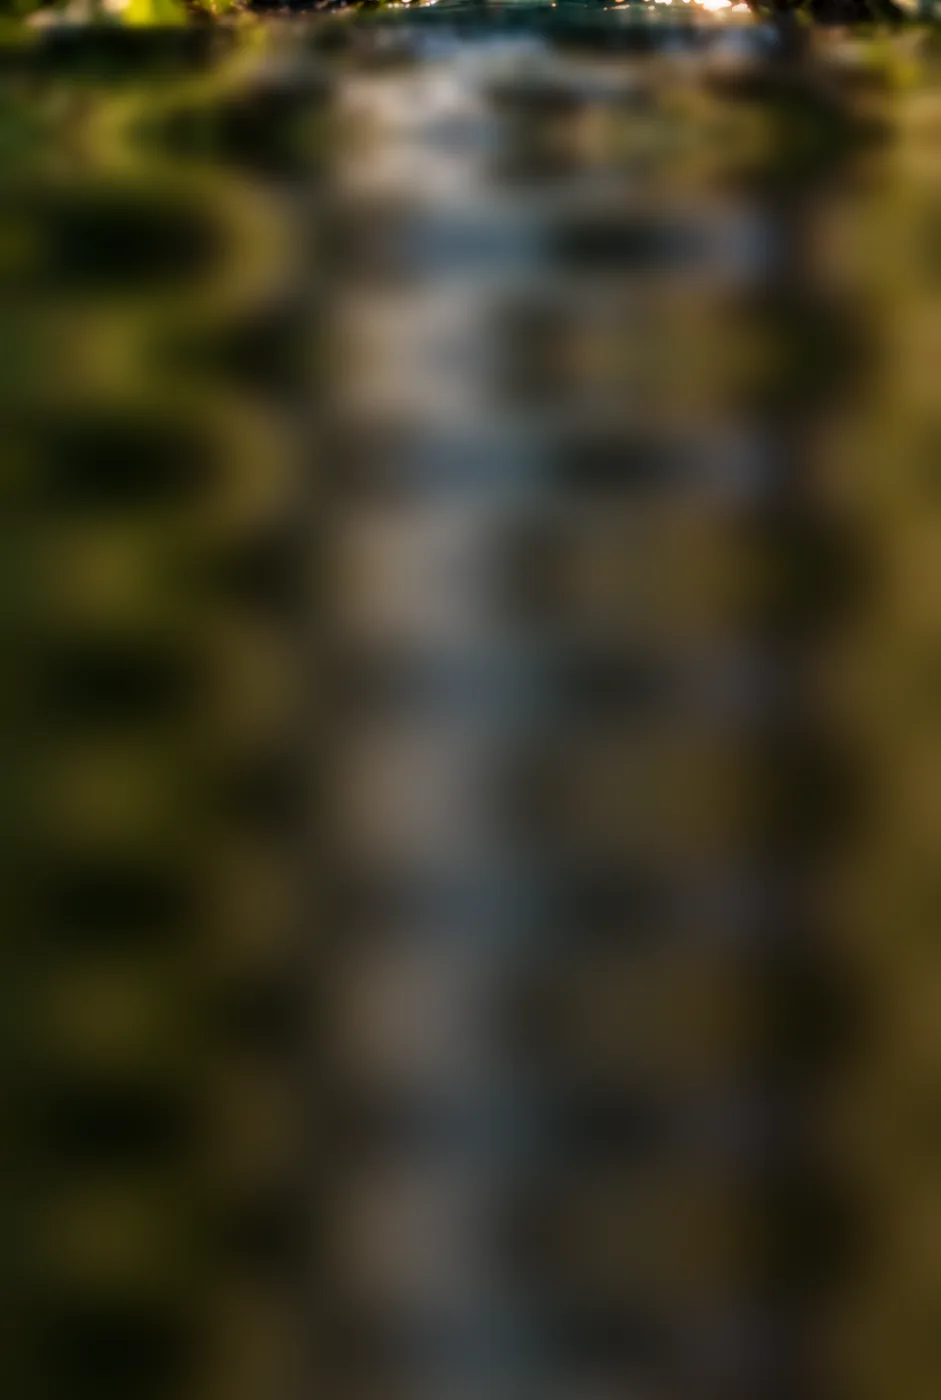
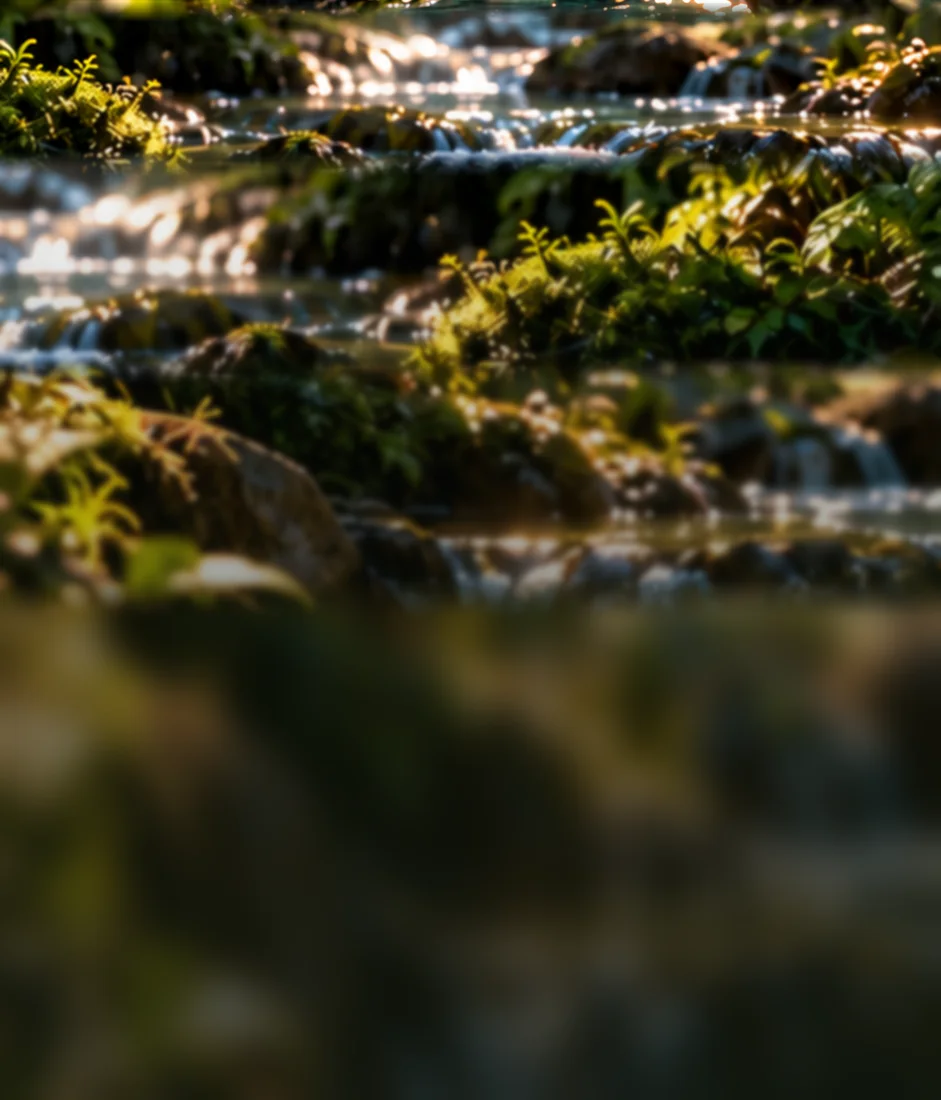
t261 메인 대문 하단 연장 재작성: 문구 없는 계곡·바위·이끼 구간만 사용(미러 없음, 좌우 반전·약한 블러·숲 바닥색으로 점진), 문구 복제 제거 · SW 캐시 t261. 카드·링크·계산·data 무변경

diff --git a/uat-sw.js b/uat-sw.js
@@ -1,6 +1,6 @@
 /* account-uat 전용 SW (scope=account-uat/). 메인 캐시 미접촉. */
 /* Same-origin static routes; normalized HTML aliases retain query navigation. */
-const CACHE='dnmuat194-acct-uat-prod-t260';
+const CACHE='dnmuat194-acct-uat-prod-t261';
 const FILES=["uat-t140-palette.css", "uat-t140.css", "uat-t141.css", "uat-t142.css", "uat-t143.css", "uat-t144.css", "uat-t144.js", "uat-t146.js", "uat-t166.css", "uat-t171.css", "uat-t145.css", "uat-t138.js", "uat-t138.css", "mobile-ui-v1.css", "asset-finish.css", "asset-hub.html", "asset-hub.css", "weather.html", "weather.css", "weather.js", "weather-engine.js", "weather-chart.js", "weather-entry.css", "weather-entry.js", "comparison-adapter.py", "comparison-worker.js", "comparison-render.js", "search-comparison.css", "search-viewport.js", "analysis-search.html", "analysis-hub.css", "compare.html", "comparison-selection.js", "analysis-entry.js", "analysis-entry.css", "assets/forest/forest-bg-tall.webp", "assets/forest/forest-bg-wide.webp", "assets/forest/sprout-mark.webp", "assets/forest/sprout.webp", "forest-analysis.css", "forest-ui.js", "asset-home.html", "output.html", "portal.css", "portal-navigation.css", "nav4.css", "portal-navigation.js", "assets/portal/aux-left.png", "assets/portal/output-card.png", "assets/portal/row-gap.png", "assets/portal/terms-card.png", "assets/portal/header.png", "assets/portal/main-gap.png", "assets/portal/footer.png", "assets/portal/main-right.png", "assets/portal/asset-card.png", "assets/portal/aux-right.png", "assets/portal/analysis-card.png", "assets/portal/main-left.png", "assets/portal/aux-gap.png", "assets/mock/ground.webp", "assets/mock/home_large_glowing_tree.webp", "assets/mock/home_medium_sapling.webp", "assets/mock/home_small_sapling.webp", "assets/mock/i-badge.webp", "assets/mock/i-bank.webp", "assets/mock/i-bars.webp", "assets/mock/i-calendar.webp", "assets/mock/i-check.webp", "assets/mock/i-clock.webp", "assets/mock/i-cloud.webp", "assets/mock/i-coin-small.webp", "assets/mock/i-coin-stack.webp", "assets/mock/i-doc.webp", "assets/mock/i-flow-coins.webp", "assets/mock/i-gear.webp", "assets/mock/i-logo.webp", "assets/mock/i-nav-compass.webp", "assets/mock/i-nav-home.webp", "assets/mock/i-nav-mgmt.webp", "assets/mock/i-piggy.webp", "assets/mock/i-recdoc.webp", "assets/mock/i-recycle.webp", "assets/mock/i-spinner.webp", "assets/mock/i-stack.webp", "assets/mock/i-wallet.webp", "assets/mock/loading_sapling.webp", "assets/mock/management_glowing_tree.webp", "assets/mock/page-bg.webp", "assets/mock/screen-bg.webp", "./", "mobile-text-v1.3.css", "perf-finish.css", "product-shell.js", "management.css", "app.js", "phase-data.js", "term-help.js", "sections45-finish.css", "management-ledger.js", "facts-display.js", "display-strategies.json", "terms-page.js", "facts_projection.py", "analysis.html", "phase-worker.js", "real-detail.js", "presentation.py", "favicon.ico", "phase-viewport.js", "sections45-display.js", "lab-shell.js", "management-storage.js", "styles.css", "runtime_source.zip", "terms.html", "index.html", "management-data.js", "management-tax.js", "data/tax-v53.json", "mobile-detail.html", "facts-finish.css", "sections13-finish.css", "management.html", "market_projection.py", "term-help.css", "phase-shell.js", "management-view.js", "detail.html", "sections13-display.js", "data/475380.json", "data/0144L0.json", "data/0094L0.json", "data/491620.json", "data/0219E0.json", "data/0128D0.json", "data/091170.json", "data/495050.json", "data/0089D0.json", "data/494300.json", "data/0176P0.json", "data/493420.json", "data/465670.json", "data/0222D0.json", "data/runtime-manifest.json", "data/429000.json", "data/452360.json", "data/211900.json", "data/279530.json", "data/373790.json", "data/0115C0.json", "data/245340.json", "data/term-help-content.json", "data/0097L0.json", "data/0139P0.json", "data/0153X0.json", "data/468380.json", "data/0104P0.json", "data/0004G0.json", "data/458760.json", "data/441640.json", "data/0223A0.json", "data/460660.json", "data/498400.json", "data/0049M0.json", "data/0005A0.json", "data/499150.json", "data/0084E0.json", "data/290080.json", "data/495850.json", "data/497780.json", "data/446720.json", "data/480020.json", "data/472150.json", "data/0190G0.json", "data/495230.json", "data/476690.json", "data/0094M0.json", "data/0177R0.json", "data/0022T0.json", "data/104530.json", "data/441680.json", "data/0127V0.json", "data/476850.json", "data/0052D0.json", "data/466940.json", "data/498410.json", "data/487950.json", "data/441800.json", "data/490590.json", "data/495040.json", "data/161510.json", "data/483290.json", "data/484880.json", "data/0089C0.json", "data/481050.json", "data/0198A0.json", "data/498860.json", "data/482730.json", "data/336160.json", "data/166400.json", "data/494420.json", "data/0107F0.json", "data/0018C0.json", "data/432840.json", "data/433330.json", "data/0008S0.json", "data/289480.json", "data/catalog.json", "data/475720.json", "data/0098N0.json", "data/402970.json", "data/0138T0.json", "data/493810.json", "data/460960.json", "data/490600.json", "data/0104N0.json", "data/495330.json", "data/458730.json", "data/0167B0.json", "data/489250.json", "data/486290.json", "data/496080.json", "data/0210E0.json", "data/483280.json", "data/474220.json", "data/480030.json", "data/0084D0.json", "data/494210.json", "data/management-distributions.json", "data/489030.json", "data/480040.json", "data/0199C0.json", "data/453330.json", "data/448100.json", "data/322410.json", "data/0153K0.json", "data/0111J0.json", "data/prices.json", "data/0013P0.json", "data/0127T0.json", "data/0105E0.json", "data/455660.json", "data/0152E0.json", "data/0046Y0.json", "data/0189Z0.json", "data/458750.json", "inputs/475380.json", "inputs/0144L0.json", "inputs/0094L0.json", "inputs/491620.json", "inputs/0219E0.json", "inputs/0128D0.json", "inputs/091170.json", "inputs/495050.json", "inputs/0089D0.json", "inputs/494300.json", "inputs/0176P0.json", "inputs/493420.json", "inputs/465670.json", "inputs/0222D0.json", "inputs/429000.json", "inputs/452360.json", "inputs/211900.json", "inputs/279530.json", "inputs/373790.json", "inputs/0115C0.json", "inputs/245340.json", "inputs/0097L0.json", "inputs/0139P0.json", "inputs/0153X0.json", "inputs/468380.json", "inputs/0104P0.json", "inputs/0004G0.json", "inputs/458760.json", "inputs/441640.json", "inputs/0223A0.json", "inputs/460660.json", "inputs/498400.json", "inputs/0049M0.json", "inputs/0005A0.json", "inputs/499150.json", "inputs/0084E0.json", "inputs/290080.json", "inputs/495850.json", "inputs/497780.json", "inputs/446720.json", "inputs/480020.json", "inputs/472150.json", "inputs/0190G0.json", "inputs/495230.json", "inputs/476690.json", "inputs/0094M0.json", "inputs/0177R0.json", "inputs/0022T0.json", "inputs/104530.json", "inputs/441680.json", "inputs/0127V0.json", "inputs/476850.json", "inputs/0052D0.json", "inputs/466940.json", "inputs/498410.json", "inputs/487950.json", "inputs/441800.json", "inputs/490590.json", "inputs/495040.json", "inputs/161510.json", "inputs/483290.json", "inputs/484880.json", "inputs/0089C0.json", "inputs/481050.json", "inputs/0198A0.json", "inputs/498860.json", "inputs/482730.json", "inputs/336160.json", "inputs/166400.json", "inputs/494420.json", "inputs/0107F0.json", "inputs/0018C0.json", "inputs/432840.json", "inputs/433330.json", "inputs/0008S0.json", "inputs/289480.json", "inputs/475720.json", "inputs/0098N0.json", "inputs/402970.json", "inputs/0138T0.json", "inputs/493810.json", "inputs/460960.json", "inputs/490600.json", "inputs/0104N0.json", "inputs/495330.json", "inputs/458730.json", "inputs/0167B0.json", "inputs/489250.json", "inputs/486290.json", "inputs/496080.json", "inputs/0210E0.json", "inputs/483280.json", "inputs/474220.json", "inputs/480030.json", "inputs/0084D0.json", "inputs/494210.json", "inputs/489030.json", "inputs/480040.json", "inputs/0199C0.json", "inputs/453330.json", "inputs/448100.json", "inputs/322410.json", "inputs/0153K0.json", "inputs/0111J0.json", "inputs/0013P0.json", "inputs/0127T0.json", "inputs/0105E0.json", "inputs/455660.json", "inputs/0152E0.json", "inputs/0046Y0.json", "inputs/0189Z0.json", "inputs/458750.json", "references/069500.json", "references/229200.json", "references/379810.json", "references/379800.json", "assets/approved-home-coins.png", "assets/management-tree.svg", "assets/management-forest.svg", "assets/pyodide/ssl-1.0.0-cp313-cp313-pyodide_2025_0_wasm32.whl", "assets/pyodide/pyodide-lock.json", "assets/pyodide/pyodide.asm.js", "assets/pyodide/sqlite3-1.0.0-cp313-cp313-pyodide_2025_0_wasm32.whl", "assets/pyodide/pyodide.js", "assets/pyodide/pyodide.asm.wasm", "assets/pyodide/libopenssl-1.1.1w.zip", "assets/pyodide/python_stdlib.zip", "analysis-finish.css", "assets/forest/analysis-hero-bg.webp", "assets/weather/wx-forest-sun.webp", "assets/weather/wx-forest-cloud.webp", "assets/weather/wx-forest-rain.webp", "dividend.html", "fd-engine.js", "fd-view.js", "fd.css", "fd-forecast.json", "fd-calendar.json", "empty-start.js"];
 const BASE=new URL('./',self.location.href),KNOWN=new Set(FILES.filter(p=>p!=='./'));
 const PARENT=new URL('../',BASE),KNOWN_ABS=new Set(FILES.filter(p=>p!=='./').map(p=>new URL(p,BASE).href));

diff --git a/index.html b/index.html
@@ -1,1 +1,1 @@
-<!doctype html><html lang="ko"><head><meta name="color-scheme" content="only dark"><meta charset="utf-8"><link rel="icon" href="favicon.ico" type="image/x-icon"><meta name="viewport" content="width=device-width,initial-scale=1"><title>돈냄새연구소</title><link rel="stylesheet" href="portal.css"><link rel="stylesheet" href="portal-t259.css?v=t260"></head><body><main class="portal"><header><h1 class="portal-copy">돈냄새연구소</h1><p class="portal-copy">정밀하게 분석하고, 천천히 키운다. 작은 씨앗이, 꾸준한 배당의 숲이 되는 길. 데이터로 분석하고, 구조로 이해하고, 천천히 자산을 키웁니다.</p><img src="assets/portal/t259/header.webp" alt="" width="941" height="460"></header><nav class="gate-row gate-r1" aria-label="놀이터와 용어"><img src="assets/portal/t259/r1-left.webp" alt="" width="31" height="214"><a class="gate-card gate-play" href="playground/" aria-label="투자 놀이터 · 전세 · 월세 투자"><span class="portal-copy">투자 놀이터 NEW · 전세 · 월세 투자</span><img src="assets/portal/t259/play.webp" alt="" width="666" height="214" onerror="this.parentNode.classList.add('noimg');this.remove()"></a><img src="assets/portal/t259/r1-gap.webp" alt="" width="17" height="214"><a class="gate-card gate-terms" href="terms.html#terms-sections" aria-label="용어"><span class="portal-copy">용어</span><img src="assets/portal/t259/terms.webp" alt="" width="196" height="214" onerror="this.parentNode.classList.add('noimg');this.remove()"></a><img src="assets/portal/t259/r1-right.webp" alt="" width="31" height="214"></nav><img src="assets/portal/t259/row-gap.webp" alt="" width="941" height="32"><div class="gate-row gate-r2" aria-label="핵심 서비스"><img src="assets/portal/t259/r2-left.webp" alt="" width="33" height="536"><a class="gate-card gate-analysis" href="analysis.html" aria-label="종목분석"><span class="portal-copy">종목분석 · 좋은 씨앗을 고르는 일부터, 가치보다 지표로, 수익률보다 지속성을 봅니다. 분석 시작하기</span><img src="assets/portal/t259/analysis.webp" alt="" width="428" height="536" onerror="this.parentNode.classList.add('noimg');this.remove()"></a><img src="assets/portal/t259/r2-gap.webp" alt="" width="19" height="536"><a class="gate-card gate-asset" href="asset-hub.html" aria-label="내 자산관리"><span class="portal-copy">내 자산관리 · 오늘 심은 자산이 내일의 숲이 되도록, 보유 종목과 분배금의 흐름을 체계적으로 관리합니다. 내 자산 보기</span><img src="assets/portal/t259/asset.webp" alt="" width="426" height="536" onerror="this.parentNode.classList.add('noimg');this.remove()"></a><img src="assets/portal/t259/r2-right.webp" alt="" width="35" height="536"></div><footer><img src="assets/portal/t259/footer.webp" alt="" width="941" height="198"><p class="portal-copy">오늘의 작은 분석이, 더 큰 내일을 만듭니다. INVEST · ANALYZE · GROW</p></footer><div class="gate-ext" aria-hidden="true"></div></main><script src="uat-t146.js?v=v53w-8"></script></body></html>
+<!doctype html><html lang="ko"><head><meta name="color-scheme" content="only dark"><meta charset="utf-8"><link rel="icon" href="favicon.ico" type="image/x-icon"><meta name="viewport" content="width=device-width,initial-scale=1"><title>돈냄새연구소</title><link rel="stylesheet" href="portal.css"><link rel="stylesheet" href="portal-t259.css?v=t261"></head><body><main class="portal"><header><h1 class="portal-copy">돈냄새연구소</h1><p class="portal-copy">정밀하게 분석하고, 천천히 키운다. 작은 씨앗이, 꾸준한 배당의 숲이 되는 길. 데이터로 분석하고, 구조로 이해하고, 천천히 자산을 키웁니다.</p><img src="assets/portal/t259/header.webp" alt="" width="941" height="460"></header><nav class="gate-row gate-r1" aria-label="놀이터와 용어"><img src="assets/portal/t259/r1-left.webp" alt="" width="31" height="214"><a class="gate-card gate-play" href="playground/" aria-label="투자 놀이터 · 전세 · 월세 투자"><span class="portal-copy">투자 놀이터 NEW · 전세 · 월세 투자</span><img src="assets/portal/t259/play.webp" alt="" width="666" height="214" onerror="this.parentNode.classList.add('noimg');this.remove()"></a><img src="assets/portal/t259/r1-gap.webp" alt="" width="17" height="214"><a class="gate-card gate-terms" href="terms.html#terms-sections" aria-label="용어"><span class="portal-copy">용어</span><img src="assets/portal/t259/terms.webp" alt="" width="196" height="214" onerror="this.parentNode.classList.add('noimg');this.remove()"></a><img src="assets/portal/t259/r1-right.webp" alt="" width="31" height="214"></nav><img src="assets/portal/t259/row-gap.webp" alt="" width="941" height="32"><div class="gate-row gate-r2" aria-label="핵심 서비스"><img src="assets/portal/t259/r2-left.webp" alt="" width="33" height="536"><a class="gate-card gate-analysis" href="analysis.html" aria-label="종목분석"><span class="portal-copy">종목분석 · 좋은 씨앗을 고르는 일부터, 가치보다 지표로, 수익률보다 지속성을 봅니다. 분석 시작하기</span><img src="assets/portal/t259/analysis.webp" alt="" width="428" height="536" onerror="this.parentNode.classList.add('noimg');this.remove()"></a><img src="assets/portal/t259/r2-gap.webp" alt="" width="19" height="536"><a class="gate-card gate-asset" href="asset-hub.html" aria-label="내 자산관리"><span class="portal-copy">내 자산관리 · 오늘 심은 자산이 내일의 숲이 되도록, 보유 종목과 분배금의 흐름을 체계적으로 관리합니다. 내 자산 보기</span><img src="assets/portal/t259/asset.webp" alt="" width="426" height="536" onerror="this.parentNode.classList.add('noimg');this.remove()"></a><img src="assets/portal/t259/r2-right.webp" alt="" width="35" height="536"></div><footer><img src="assets/portal/t259/footer.webp" alt="" width="941" height="198"><p class="portal-copy">오늘의 작은 분석이, 더 큰 내일을 만듭니다. INVEST · ANALYZE · GROW</p></footer><div class="gate-ext" aria-hidden="true"></div></main><script src="uat-t146.js?v=v53w-8"></script></body></html>

diff --git a/portal-t259.css b/portal-t259.css
@@ -11,4 +11,4 @@
 html,body{background:#0c1521}
 .portal{display:flex;flex-direction:column;min-height:100vh;min-height:100svh;min-height:100dvh}
 .portal>header,.portal>nav,.portal>div,.portal>img,.portal>footer{flex:none}
-.portal>.gate-ext{flex:1 1 auto;min-height:0;margin-top:-1px;background:url(assets/portal/t259/footer-ext.webp) center top/100% auto no-repeat,rgb(53,49,27)}
+.portal>.gate-ext{flex:1 1 auto;min-height:0;margin-top:-1px;background:url(assets/portal/t259/footer-ext.webp?v=t261) center top/100% auto no-repeat,rgb(18,24,14)}
